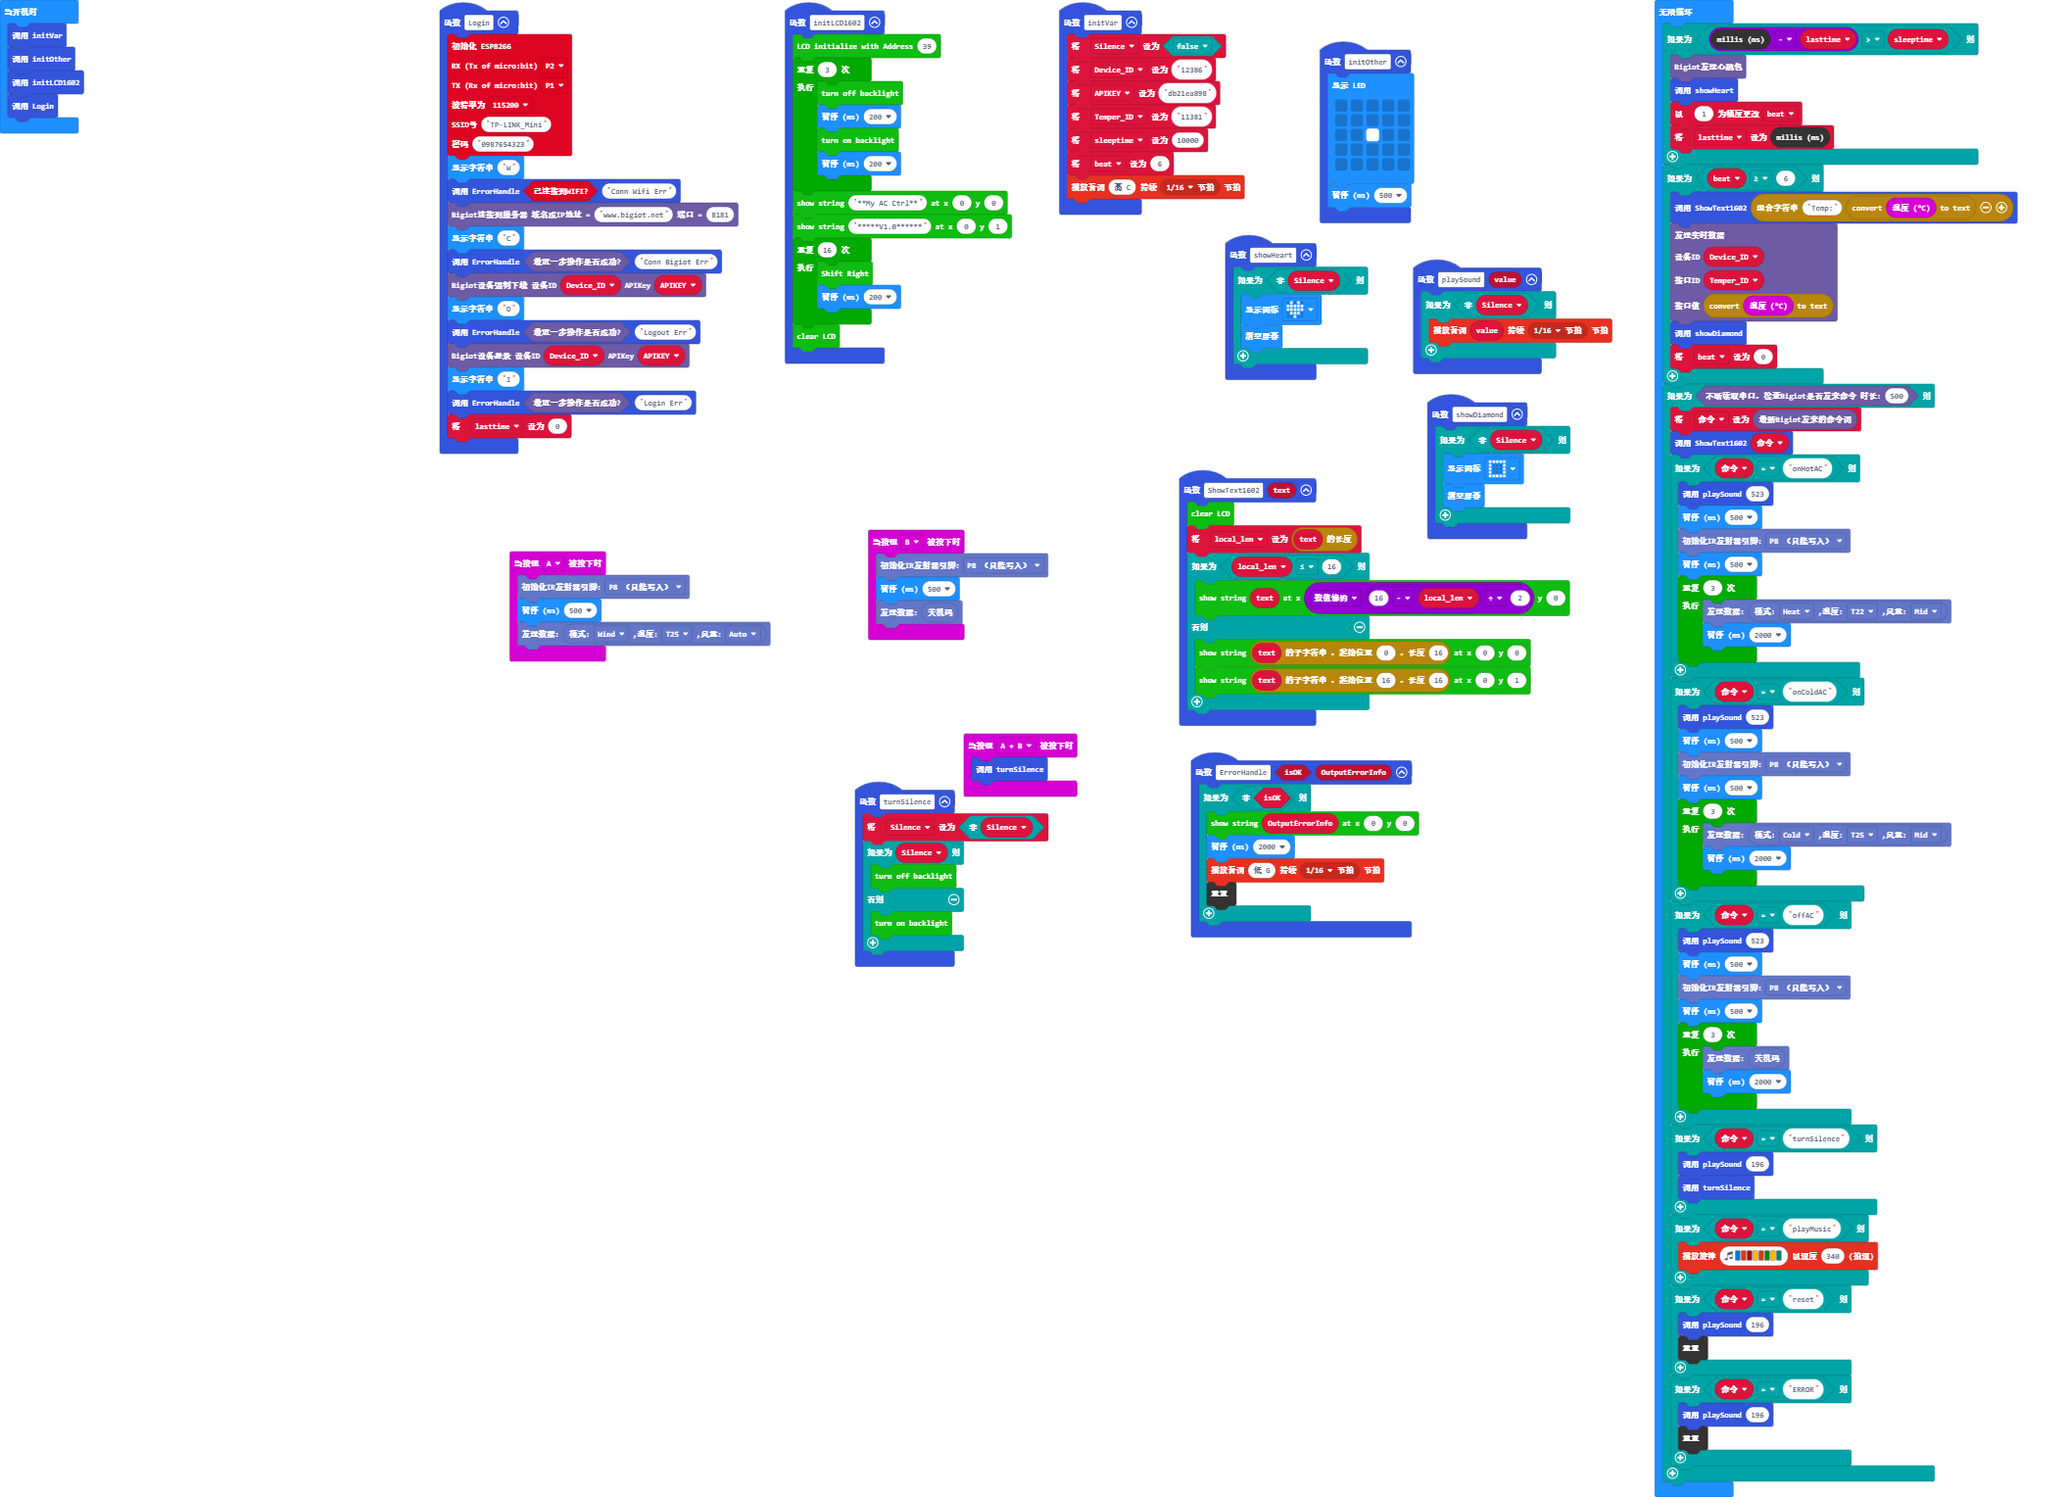
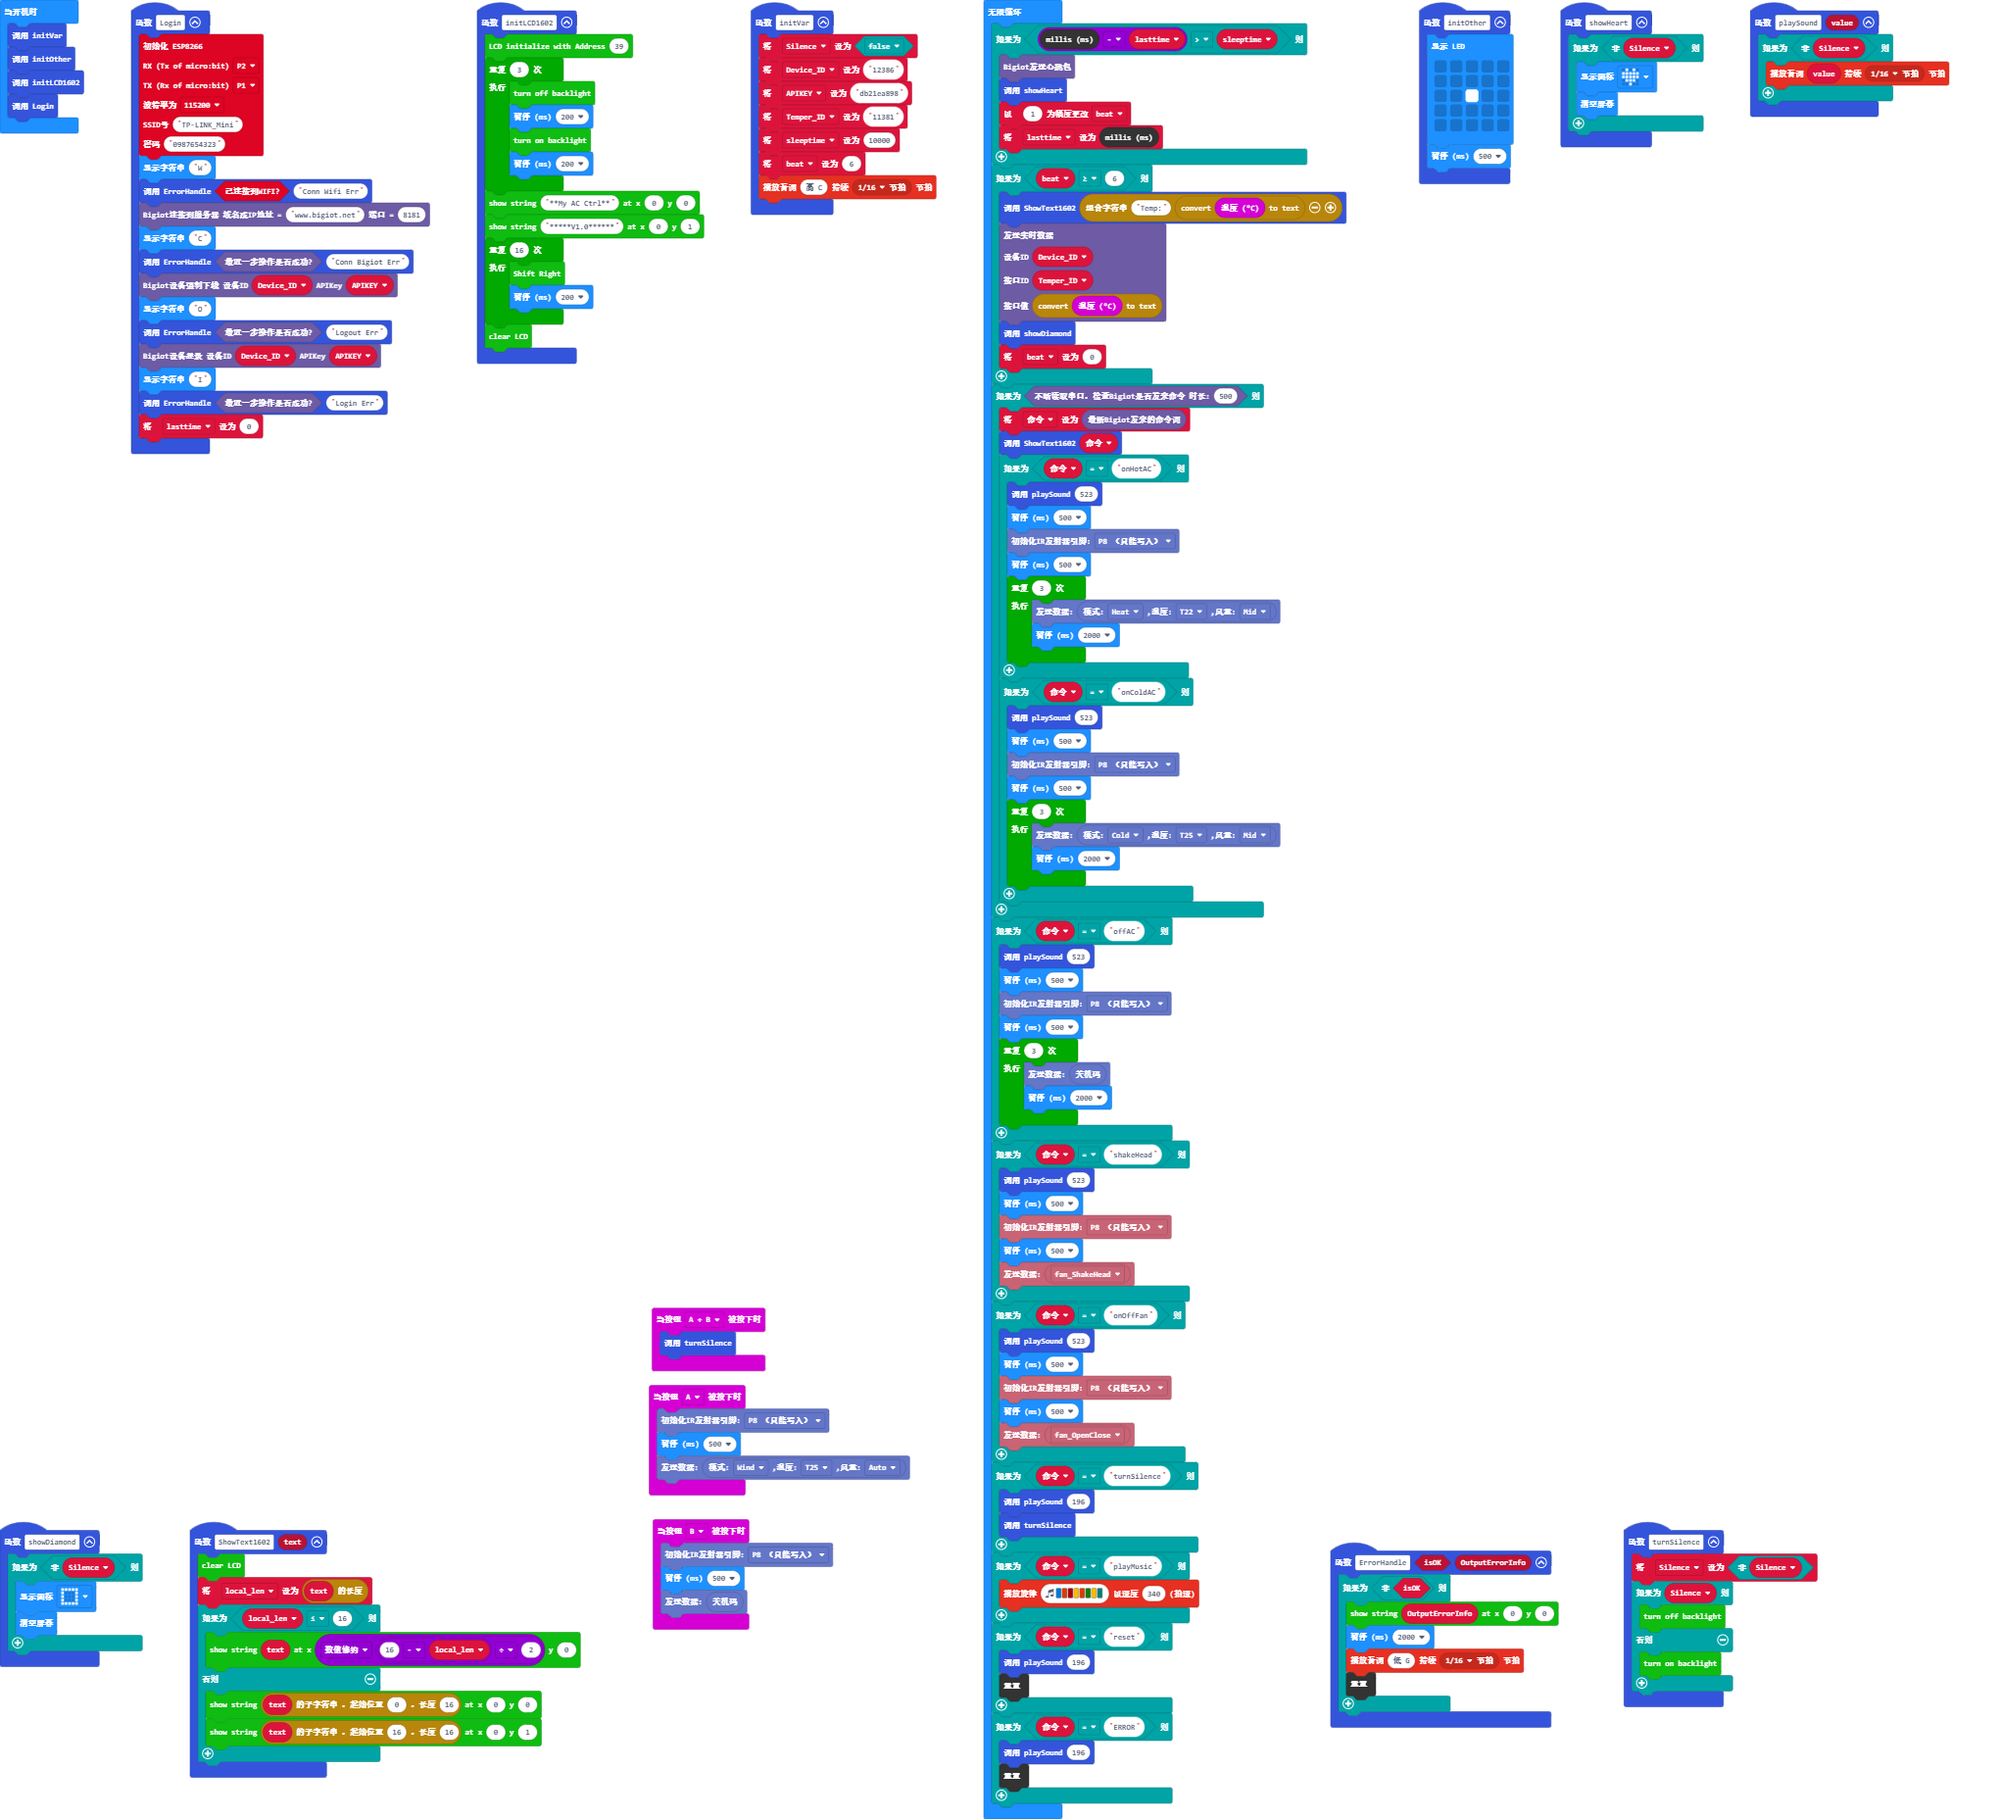
更新 pxt.json, main.blocks, main.ts

diff --git a/main.ts b/main.ts
@@ -12,9 +12,9 @@ function ErrorHandle (isOK: boolean, OutputErrorInfo: string) {
     }
 }
 input.onButtonPressed(Button.A, function () {
-    meidea_ir.initIR(AnalogPin.P8)
+    meideaAC_ir.initIR(AnalogPin.P8)
     basic.pause(500)
-    meidea_ir.sendCode(meidea_ir.getOpenCode(mode_code.Wind, tmp_code.T25, wind_code.Auto))
+    meideaAC_ir.sendCode(meideaAC_ir.getOpenCode(mode_code.Wind, tmp_code.T25, wind_code.Auto))
 })
 function turnSilence () {
     Silence = !(Silence)
@@ -90,9 +90,9 @@ function initOther () {
     basic.pause(500)
 }
 input.onButtonPressed(Button.B, function () {
-    meidea_ir.initIR(AnalogPin.P8)
+    meideaAC_ir.initIR(AnalogPin.P8)
     basic.pause(500)
-    meidea_ir.sendCode(meidea_ir.getCloseCode())
+    meideaAC_ir.sendCode(meideaAC_ir.getCloseCode())
 })
 function showDiamond () {
     if (!(Silence)) {
@@ -146,47 +146,61 @@ basic.forever(function () {
         if (命令 == "onHotAC") {
             playSound(523)
             basic.pause(500)
-            meidea_ir.initIR(AnalogPin.P8)
+            meideaAC_ir.initIR(AnalogPin.P8)
             basic.pause(500)
             for (let index = 0; index < 3; index++) {
-                meidea_ir.sendCode(meidea_ir.getOpenCode(mode_code.Heat, tmp_code.T22, wind_code.Mid))
+                meideaAC_ir.sendCode(meideaAC_ir.getOpenCode(mode_code.Heat, tmp_code.T22, wind_code.Mid))
                 basic.pause(2000)
             }
         }
         if (命令 == "onColdAC") {
             playSound(523)
             basic.pause(500)
-            meidea_ir.initIR(AnalogPin.P8)
+            meideaAC_ir.initIR(AnalogPin.P8)
             basic.pause(500)
             for (let index = 0; index < 3; index++) {
-                meidea_ir.sendCode(meidea_ir.getOpenCode(mode_code.Cold, tmp_code.T25, wind_code.Mid))
+                meideaAC_ir.sendCode(meideaAC_ir.getOpenCode(mode_code.Cold, tmp_code.T25, wind_code.Mid))
                 basic.pause(2000)
             }
         }
-        if (命令 == "offAC") {
-            playSound(523)
-            basic.pause(500)
-            meidea_ir.initIR(AnalogPin.P8)
-            basic.pause(500)
-            for (let index = 0; index < 3; index++) {
-                meidea_ir.sendCode(meidea_ir.getCloseCode())
-                basic.pause(2000)
-            }
+    }
+    if (命令 == "offAC") {
+        playSound(523)
+        basic.pause(500)
+        meideaAC_ir.initIR(AnalogPin.P8)
+        basic.pause(500)
+        for (let index = 0; index < 3; index++) {
+            meideaAC_ir.sendCode(meideaAC_ir.getCloseCode())
+            basic.pause(2000)
         }
-        if (命令 == "turnSilence") {
-            playSound(196)
-            turnSilence()
-        }
-        if (命令 == "playMusic") {
-            music.playMelody("E B C5 A B G A F ", 340)
-        }
-        if (命令 == "reset") {
-            playSound(196)
-            control.reset()
-        }
-        if (命令 == "ERROR") {
-            playSound(196)
-            control.reset()
-        }
+    }
+    if (命令 == "shakeHead") {
+        playSound(523)
+        basic.pause(500)
+        meideaFan_ir.initIR(AnalogPin.P8)
+        basic.pause(500)
+        meideaFan_ir.sendCode(meideaFan_ir.getFanMode(fanCode_code.fan_ShakeHead))
+    }
+    if (命令 == "onOffFan") {
+        playSound(523)
+        basic.pause(500)
+        meideaFan_ir.initIR(AnalogPin.P8)
+        basic.pause(500)
+        meideaFan_ir.sendCode(meideaFan_ir.getFanMode(fanCode_code.fan_OpenClose))
+    }
+    if (命令 == "turnSilence") {
+        playSound(196)
+        turnSilence()
+    }
+    if (命令 == "playMusic") {
+        music.playMelody("E B C5 A B G A F ", 340)
+    }
+    if (命令 == "reset") {
+        playSound(196)
+        control.reset()
+    }
+    if (命令 == "ERROR") {
+        playSound(196)
+        control.reset()
     }
 })
